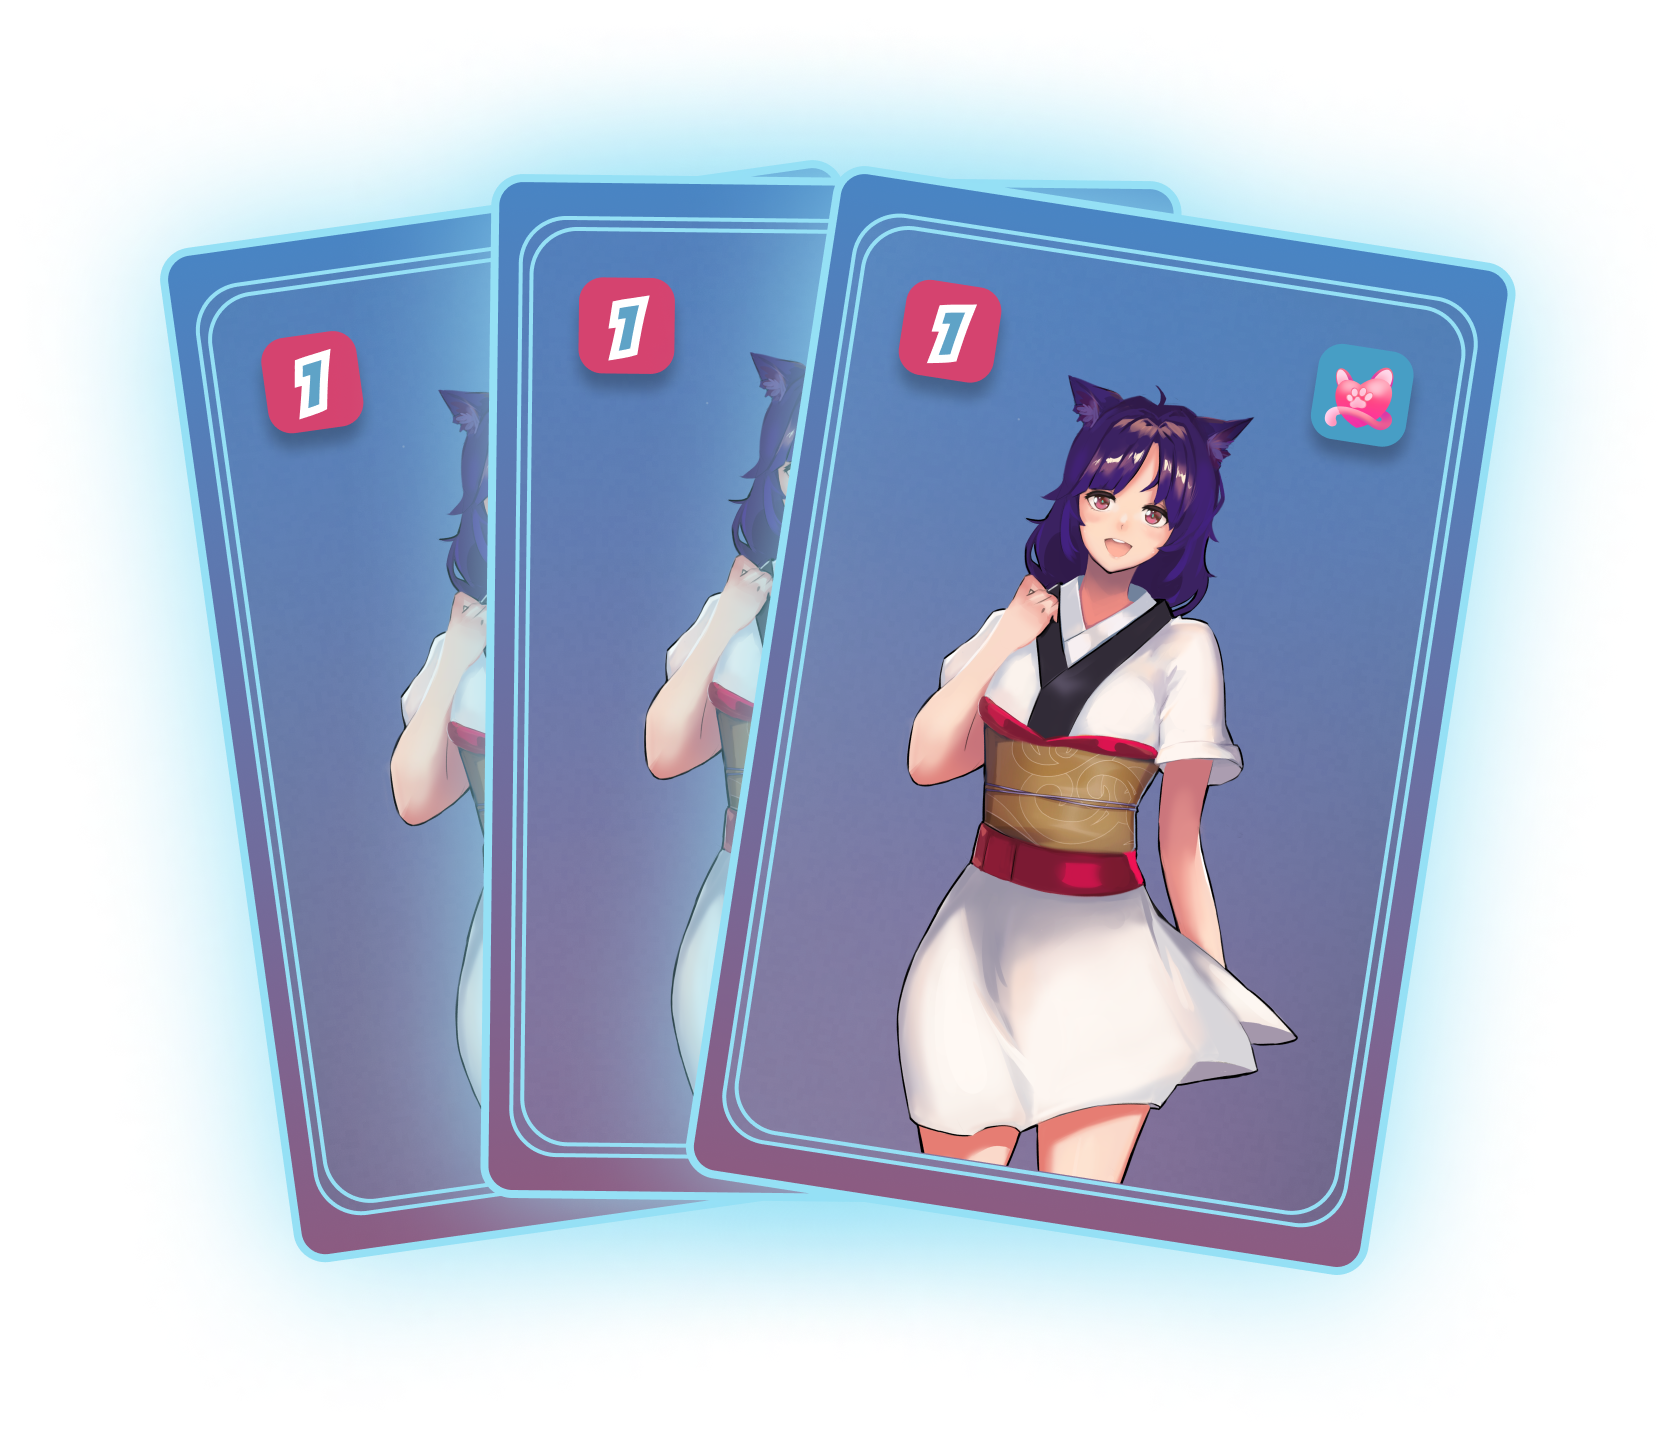
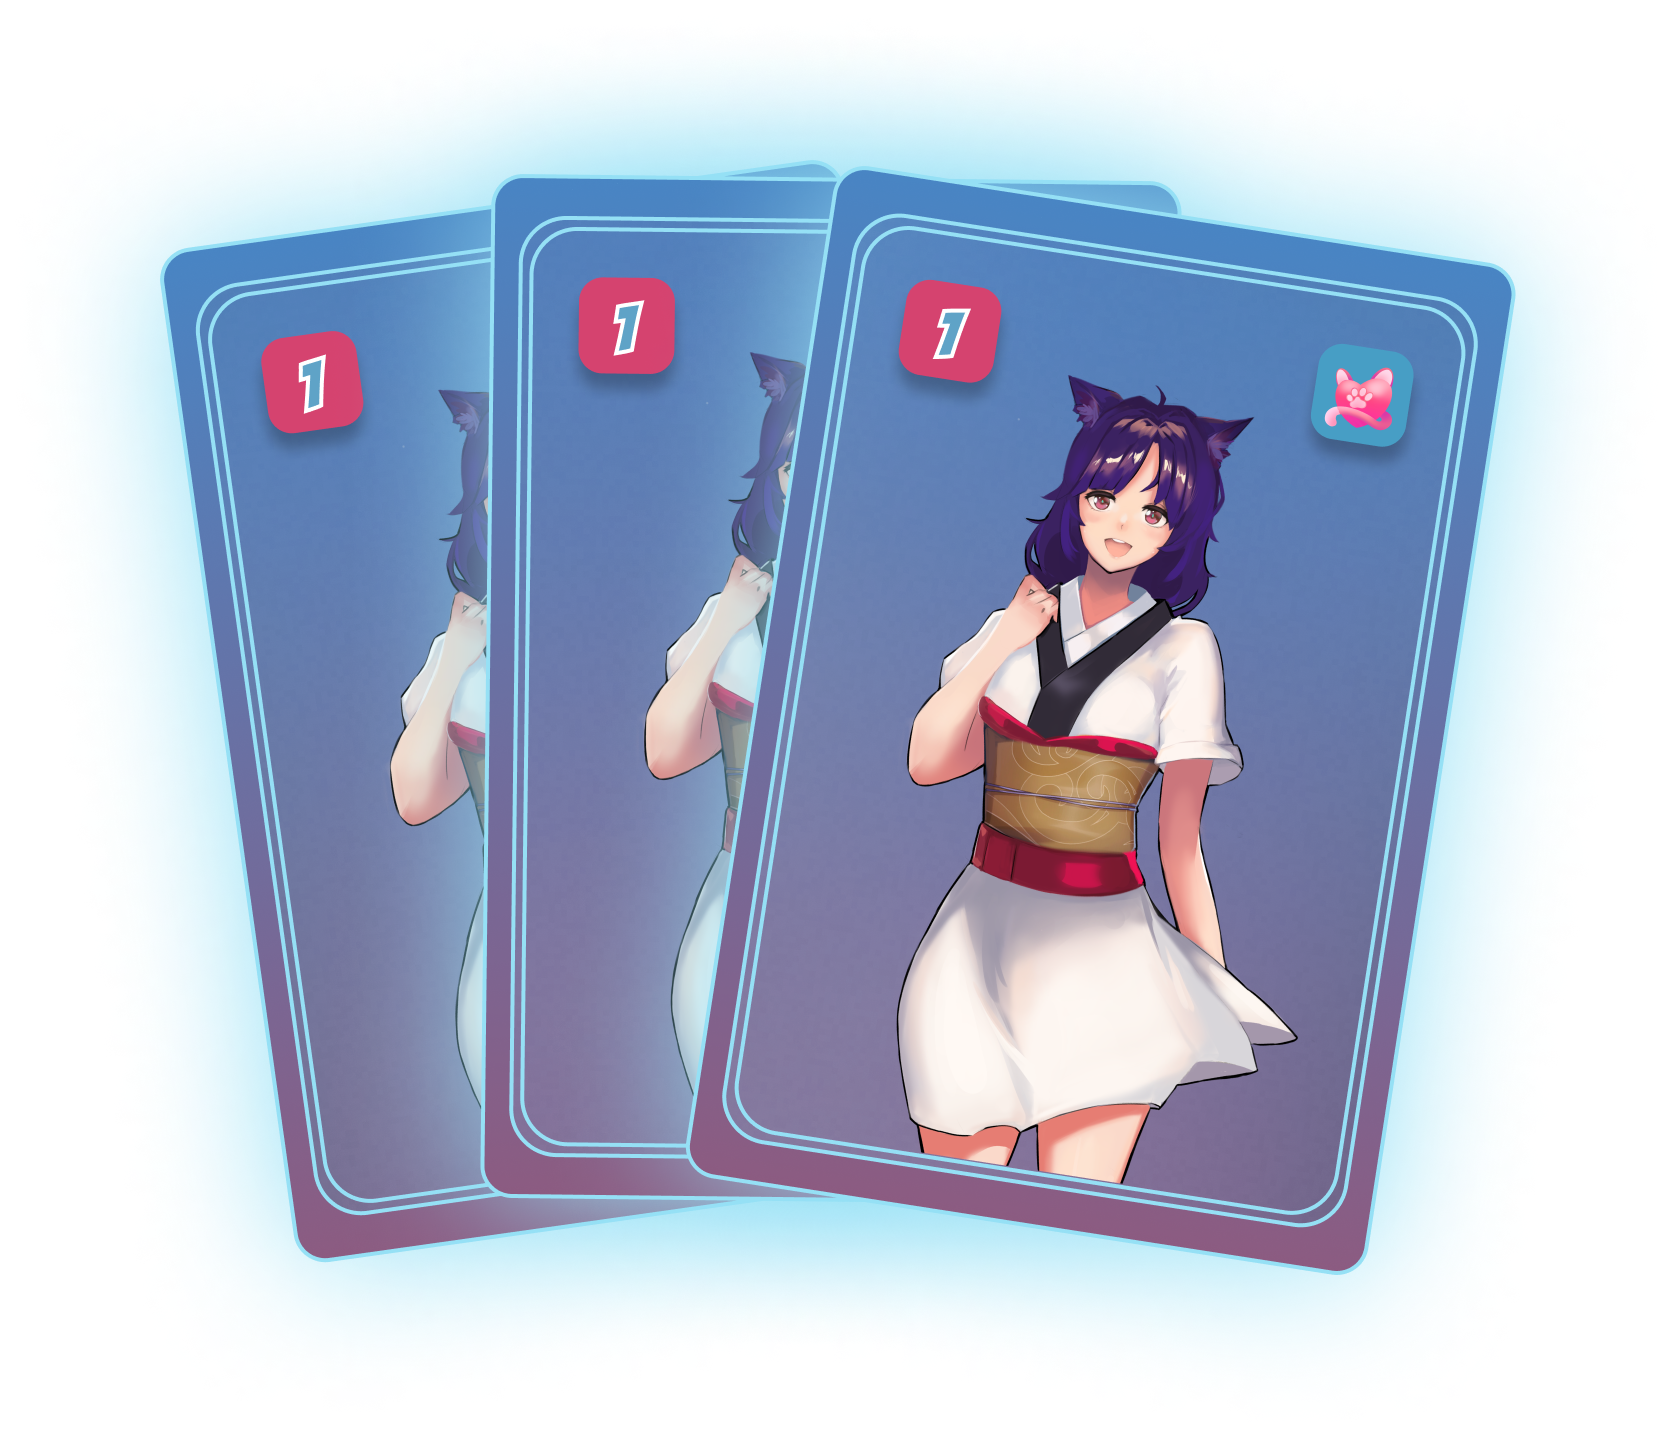
fix some

diff --git a/components/smart-blending/index.tsx b/components/smart-blending/index.tsx
@@ -10,6 +10,7 @@ import Image from 'next/image'
 type SmartBlendingProps = {
   className?: string
 }
+
 export const SmartBlending: React.FC<SmartBlendingProps> = ({ className }) => (
   <section className={classNames(className, s.section)}>
     <Container className={s.container}>
@@ -38,12 +39,12 @@ export const SmartBlending: React.FC<SmartBlendingProps> = ({ className }) => (
             icon="nyan"
             image="catgirllvl1-1"
             rating="2"
-            frameColor="#d87193"
+            frameColor="#93d8ec"
           />
         </div>
         <div className={s.column}>
           <img className={s.imageTop} alt="" src="/images/mimi2.png" />
-          <div className={s.arrow}>
+          <div className={s.arrow2}>
             <Image
               src="/images/svg/arrow.svg"
               alt="arrow"
@@ -55,13 +56,7 @@ export const SmartBlending: React.FC<SmartBlendingProps> = ({ className }) => (
               <span className={s.nextLvl}>next lvl</span>
             </div>
           </div>
-          <Card
-            className={s.card}
-            icon="nyan"
-            image="wizardlvl1"
-            rating="2"
-            frameColor="#d87193"
-          />
+          <img className={s.imageTop} alt="" src="/images/mimi3.png" />
         </div>
       </div>
     </Container>

diff --git a/components/types-of-rarity/index.tsx b/components/types-of-rarity/index.tsx
@@ -38,7 +38,7 @@ export const TypesOfRarity: React.FC<Props> = () => (
             icon="nyan"
             image="catgirllvl1-1"
             rating="2"
-            frameColor="#d87193"
+            frameColor="#93d8ec"
           />
           <div style={{ color: 'white' }} className={s.cardName}>
             Common
@@ -80,8 +80,9 @@ export const TypesOfRarity: React.FC<Props> = () => (
           <Card
             className={s.card}
             frameColor="#e8dc3f"
-            iconBackgroundColor="#e8dc3f"
+            iconBackgroundColor="#479EC5"
             ratingBackgroundColor="#e8dc3f"
+            rating="2"
           />
           <div style={{ color: '#e8dc3f' }} className={s.cardName}>
             Epic

diff --git a/components/shared-ui/card/card.module.scss b/components/shared-ui/card/card.module.scss
@@ -4,7 +4,7 @@
   width: 100%;
   height: 100%;
   height: 314px;
-  padding: 9px;
+  padding: 6px;
 }
 
 .frame {
@@ -15,7 +15,7 @@
   width: 100%;
   backdrop-filter: blur(80px);
   border-radius: 12px;
-  border: 6px solid;
+  border: 4.5px double;
   position: relative; 
 }
 
@@ -66,14 +66,14 @@
   margin-left: auto;
   margin-right: auto;
   z-index: 0;
-  height: 85%;
+  height: 93%;
 }
 
 .iconEmpty {
   font-family: 'AA BadaBoom BB';
   font-size: 26px;
   line-height: 21px;
-  -webkit-text-fill-color: #D5436F;
+  -webkit-text-fill-color: #479EC5;
   -webkit-text-stroke-color: white;
   -webkit-text-stroke-width: 2px; 
   z-index: 3;

diff --git a/components/smart-blending/smart_blending.module.scss b/components/smart-blending/smart_blending.module.scss
@@ -19,11 +19,26 @@
 }
 
 .imageTop {
-  height: 307px;
+  height: 335px;
 }
 
 .arrow {
   margin-bottom: 50px;
+  margin-left: 30%;
+  text-align: center;
+  display: flex;
+  justify-content: center;
+  span {
+    transform: rotate(90deg);
+    -webkit-transform: rotate(90deg);
+    -moz-transform: rotate(90deg);
+    -ms-transform: rotate(90deg);
+    -o-transform: rotate(90deg);
+  }
+}
+
+.arrow2 {
+  margin-bottom: 10px;
   margin-left: 30%;
   text-align: center;
   display: flex;

diff --git a/components/grow-waifu/index.tsx b/components/grow-waifu/index.tsx
@@ -44,7 +44,7 @@ export const GrowWaifu: React.FC<GrowWaifuProps> = ({ className }) => (
         <Card
           className={s.card}
           frameColor="#e8dc3f"
-          iconBackgroundColor="#e8dc3f"
+          iconBackgroundColor="#479EC5"
           ratingBackgroundColor="#e8dc3f"
           rating="3"
         />
